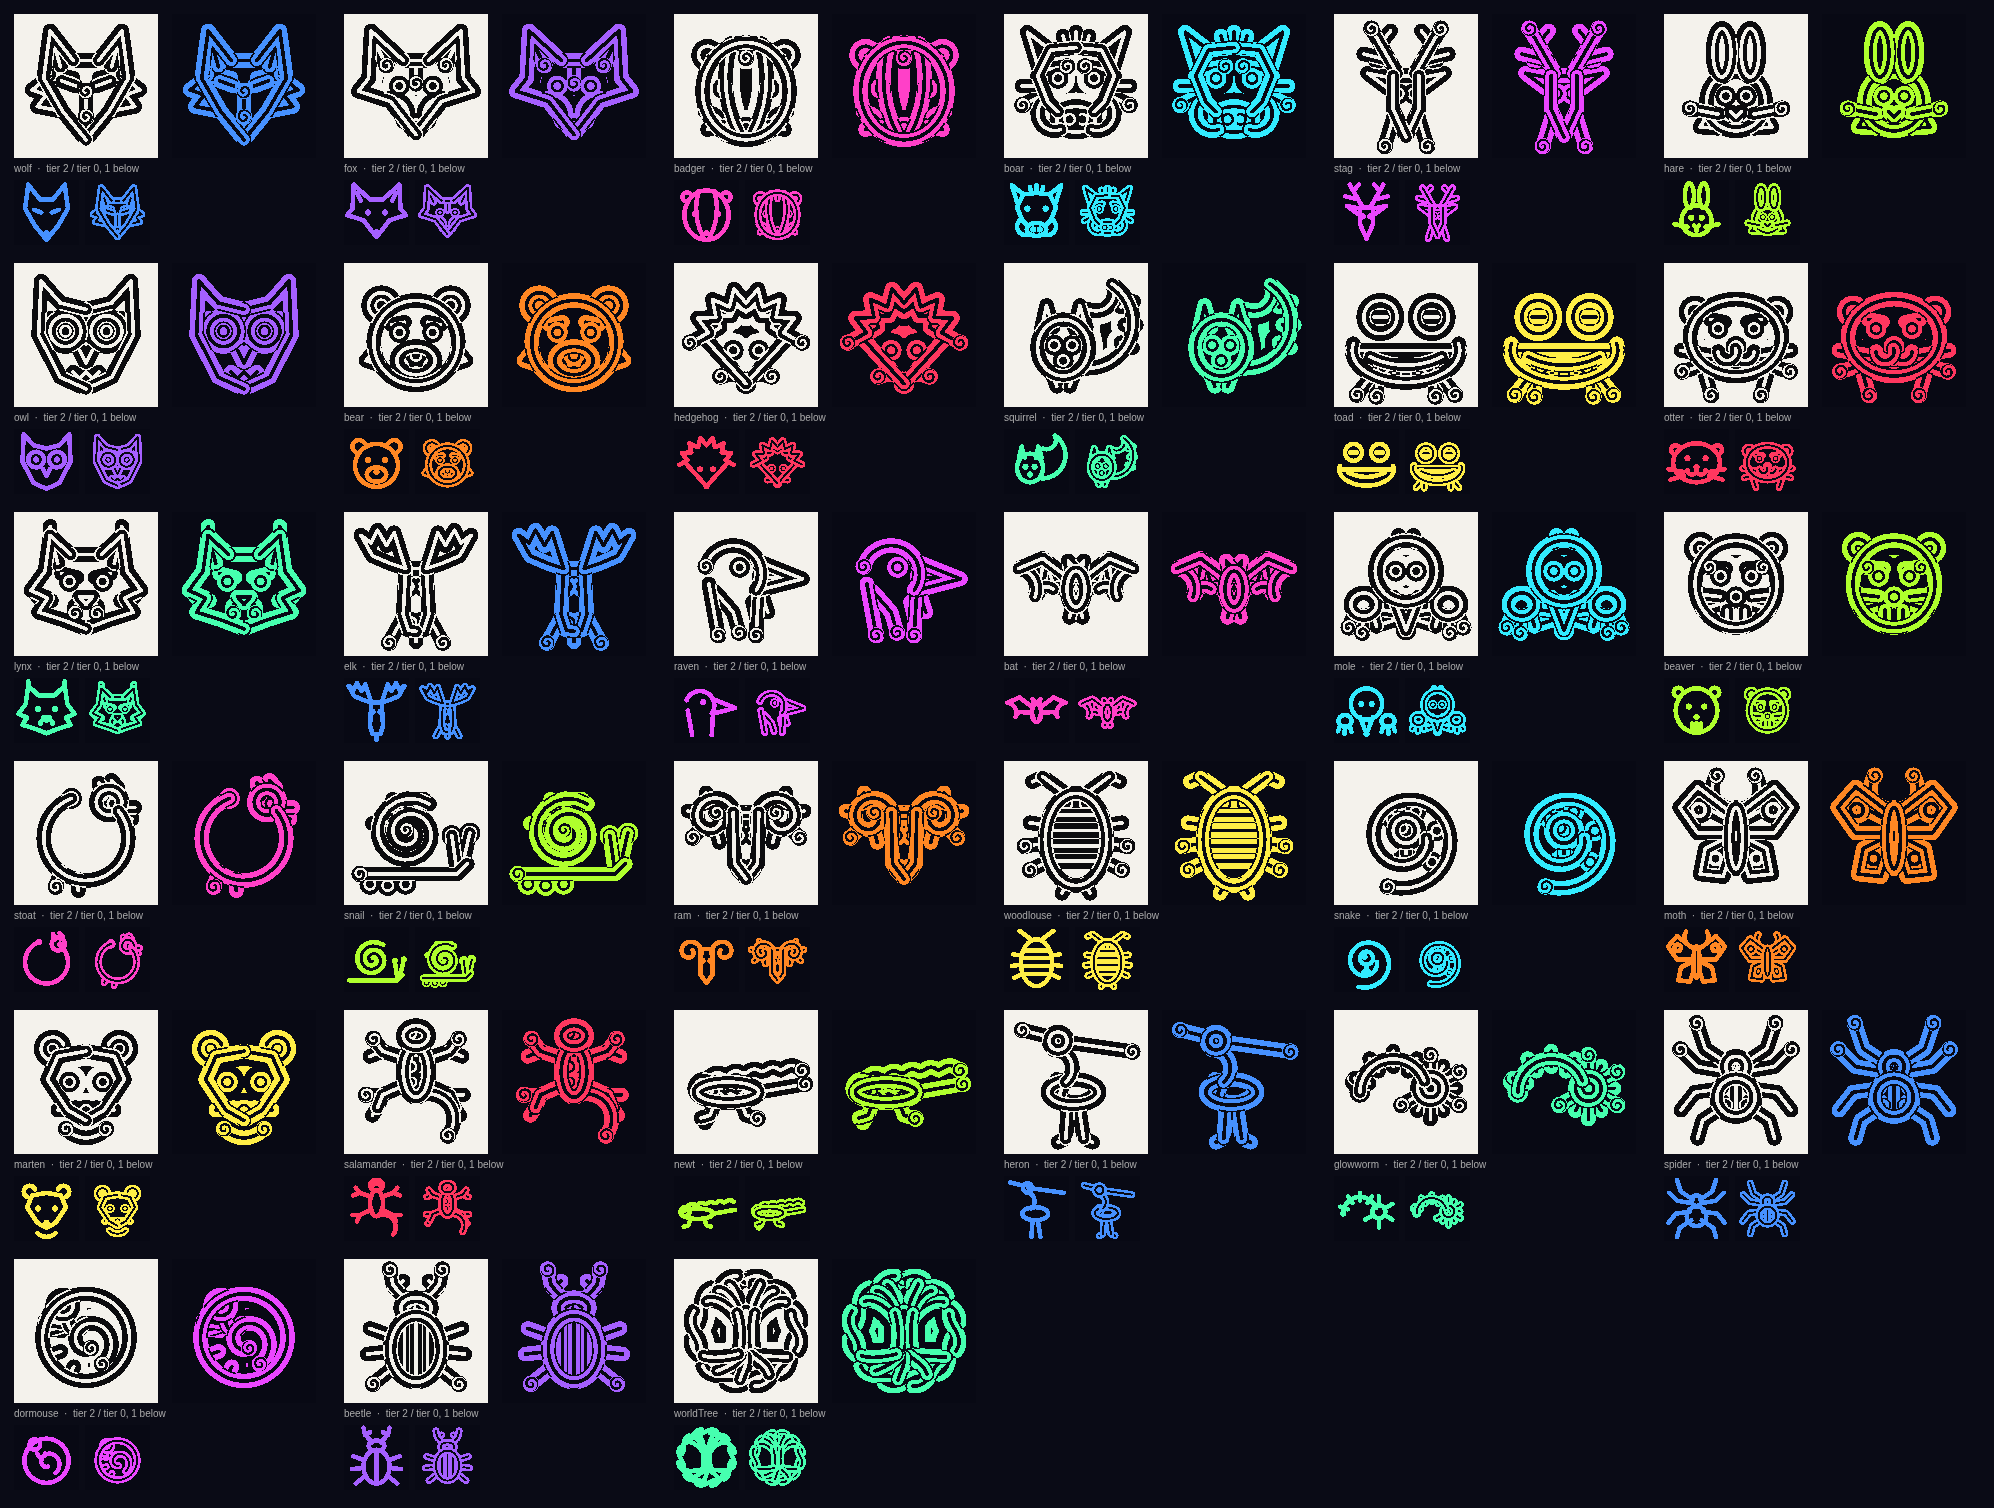
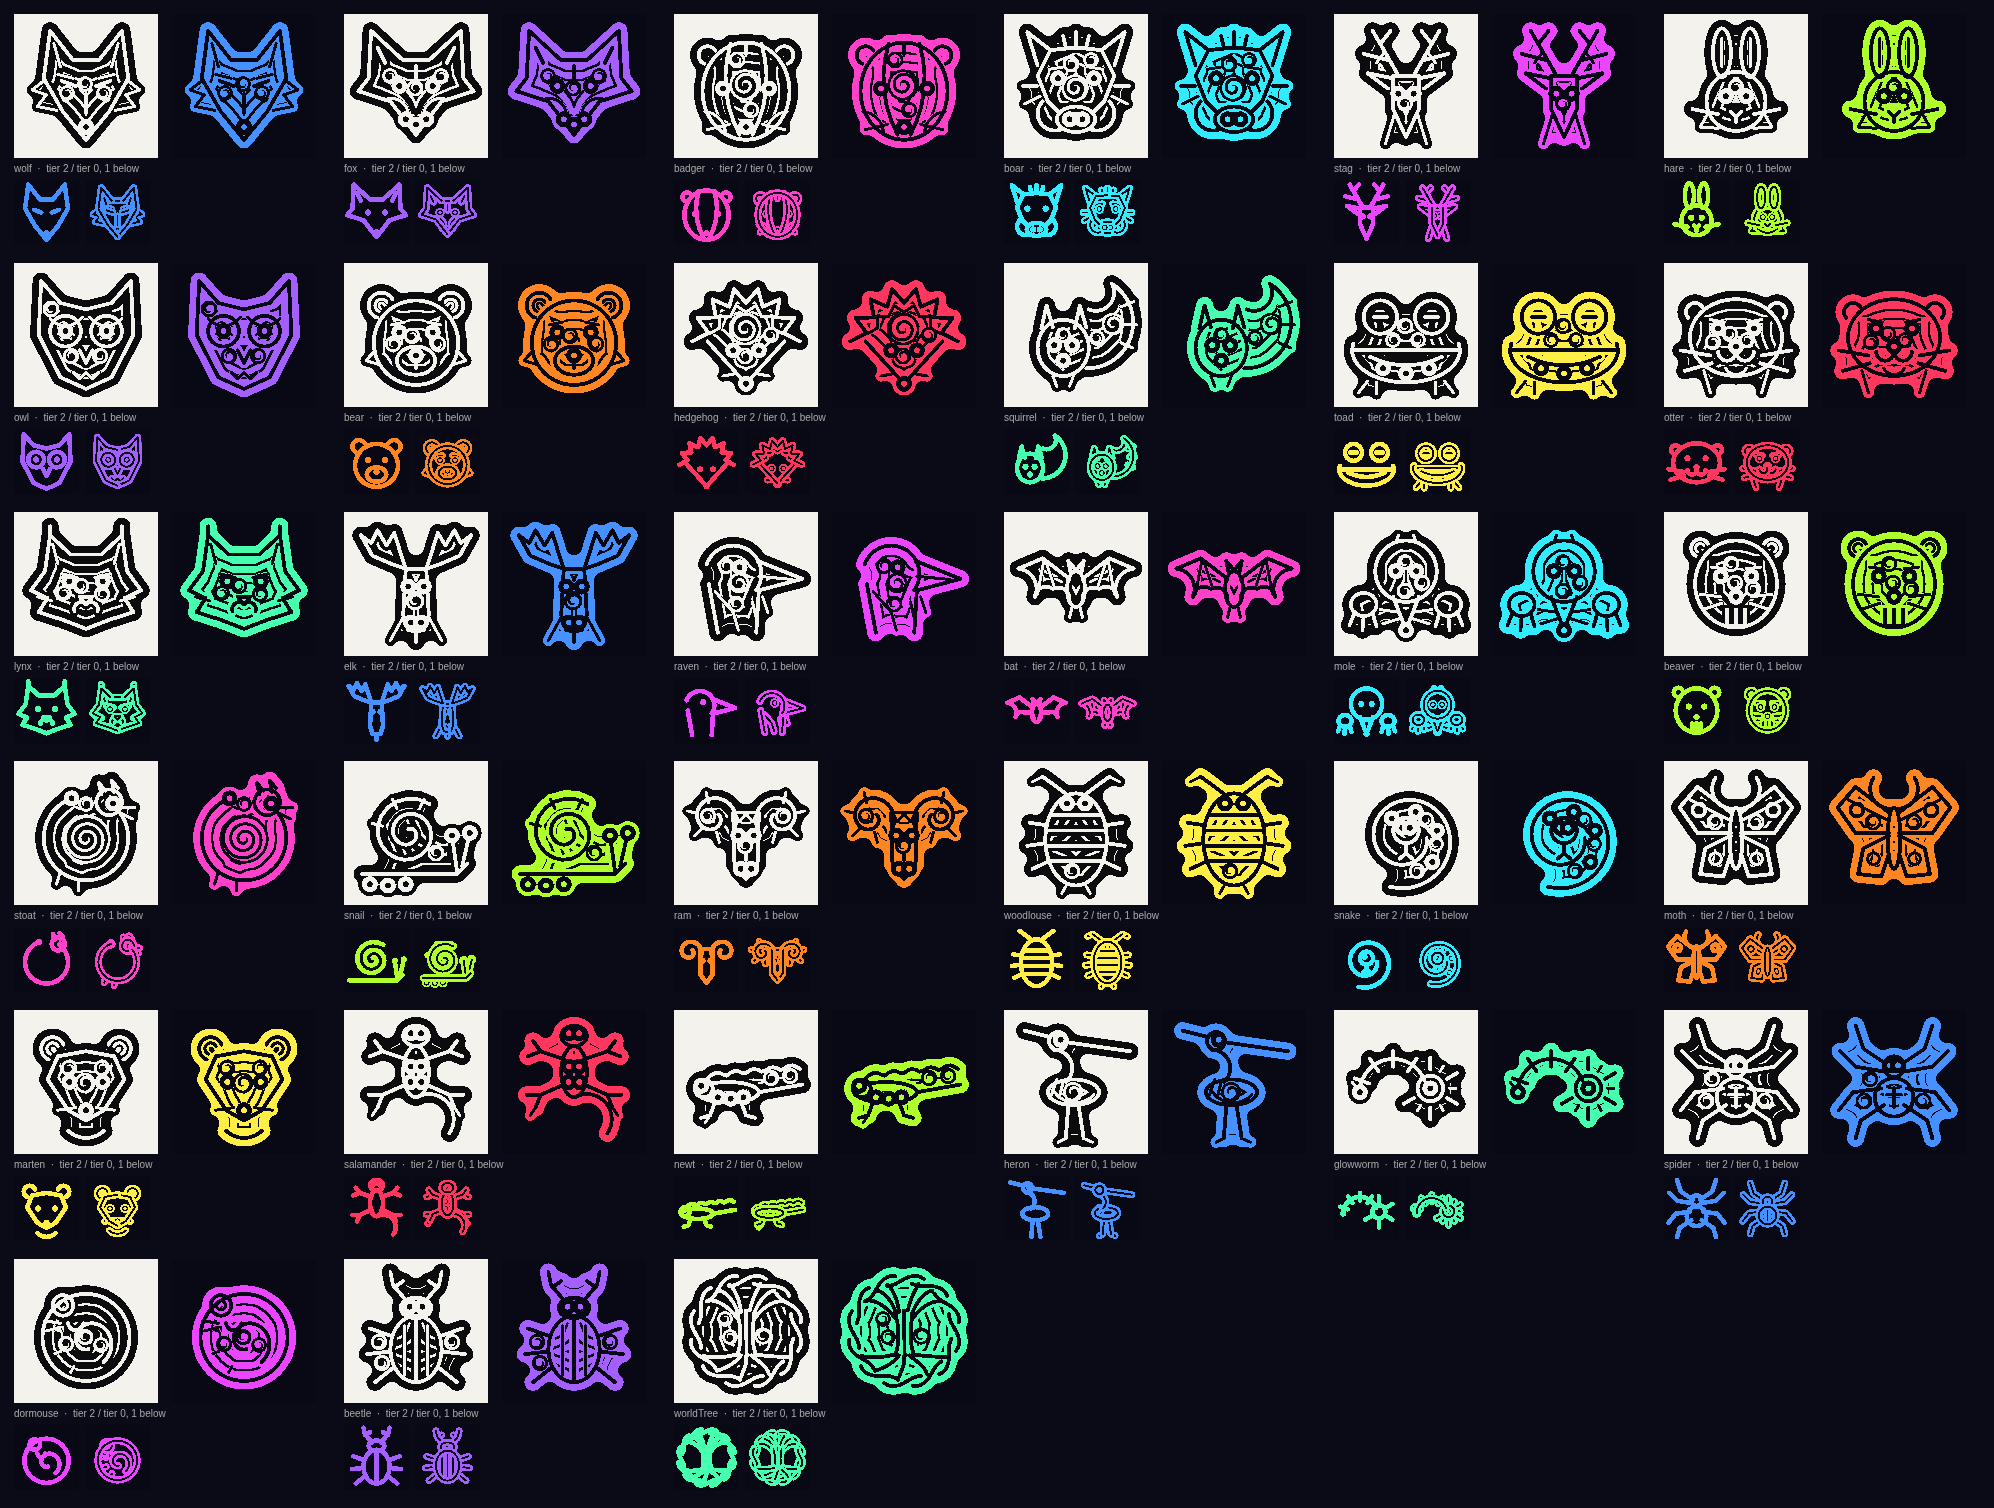
Ed shots: detailed sigils round 2, the carved emblem
Claude-Session: https://claude.ai/code/session_01CCJ1G3QaUxYK9jSu9176NM

diff --git a/previews/ed/chart/sigils-detailed.html b/previews/ed/chart/sigils-detailed.html
@@ -1,6 +1,8 @@
 <!doctype html><meta charset="utf-8"><title>Detailed sigils beside the reference</title>
 <style>body{margin:0;background:#0a0b16;color:#ddd;font:14px ui-monospace,monospace;padding:16px}img{max-width:100%;display:block;margin:8px 0 24px}</style>
 <h2>Ed's reference</h2><img src="../refs/sigil-detail-reference.png" alt="reference">
-<h2>Our detailed sigils (all 32 animals and home's World Tree)</h2>
-<p>Big black-on-white and neon squares: tier 2 (knotwork). The small pair under each: tier 0 (the plain glyph, used when small on screen) and tier 1 (carved bands).</p>
-<img src="sigils-detailed-all.png" alt="detailed sigils">
+<h2>Round 2, the carved emblem: wolf, raven, bear, boar, stag, hare (compare the reference's wolf, raven, bear and boar)</h2>
+<img src="sigils-carved-six.png" alt="six carved sigils">
+<h2>All 32 animals and home's World Tree</h2>
+<p>Big squares: the carved emblem (the close-up tier), black on white like the reference and in neon. The small pair under each: the plain glyph (used when small) and the carved bands (mid sizes).</p>
+<img src="sigils-detailed-all.png" alt="all detailed sigils">

diff --git a/previews/ed/chart/SIGILS-DETAILED.md b/previews/ed/chart/SIGILS-DETAILED.md
@@ -19,3 +19,16 @@ There are no circles at any size. The colour stays each animal's neon.
 
 On the chart: #699 already shows the plain glyph with no circle. Once this PR lands, the chart switches to these by on-screen
 size: the plain glyph below about 64 px, the carved bands to about 128 px, the knotwork beyond.
+
+## Round 2 (Ed: "Close but could do with more work")
+
+The top tier is now a solid carved emblem, as the reference's are, not a line drawing. Each animal is one mass of ink: its
+strokes made broad, the gaps between them closed, and whatever they enclose filled in, with a clean edge. Carved into it:
+- a channel down every stroke, so the outline becomes a carved border and the face keeps its lines;
+- finer channels for the fur and feather lines;
+- the eyes as holes with a pupil left in;
+- spirals in its broadest places (cheeks, haunches, shoulders);
+- channels echoing the outline through the rest of the solid.
+
+`sigils-carved-six.png` has the six to compare with the reference first: wolf, raven, bear, boar, stag and hare.
+`sigils-detailed-all.png` has the rest. The two smaller sizes are unchanged.
